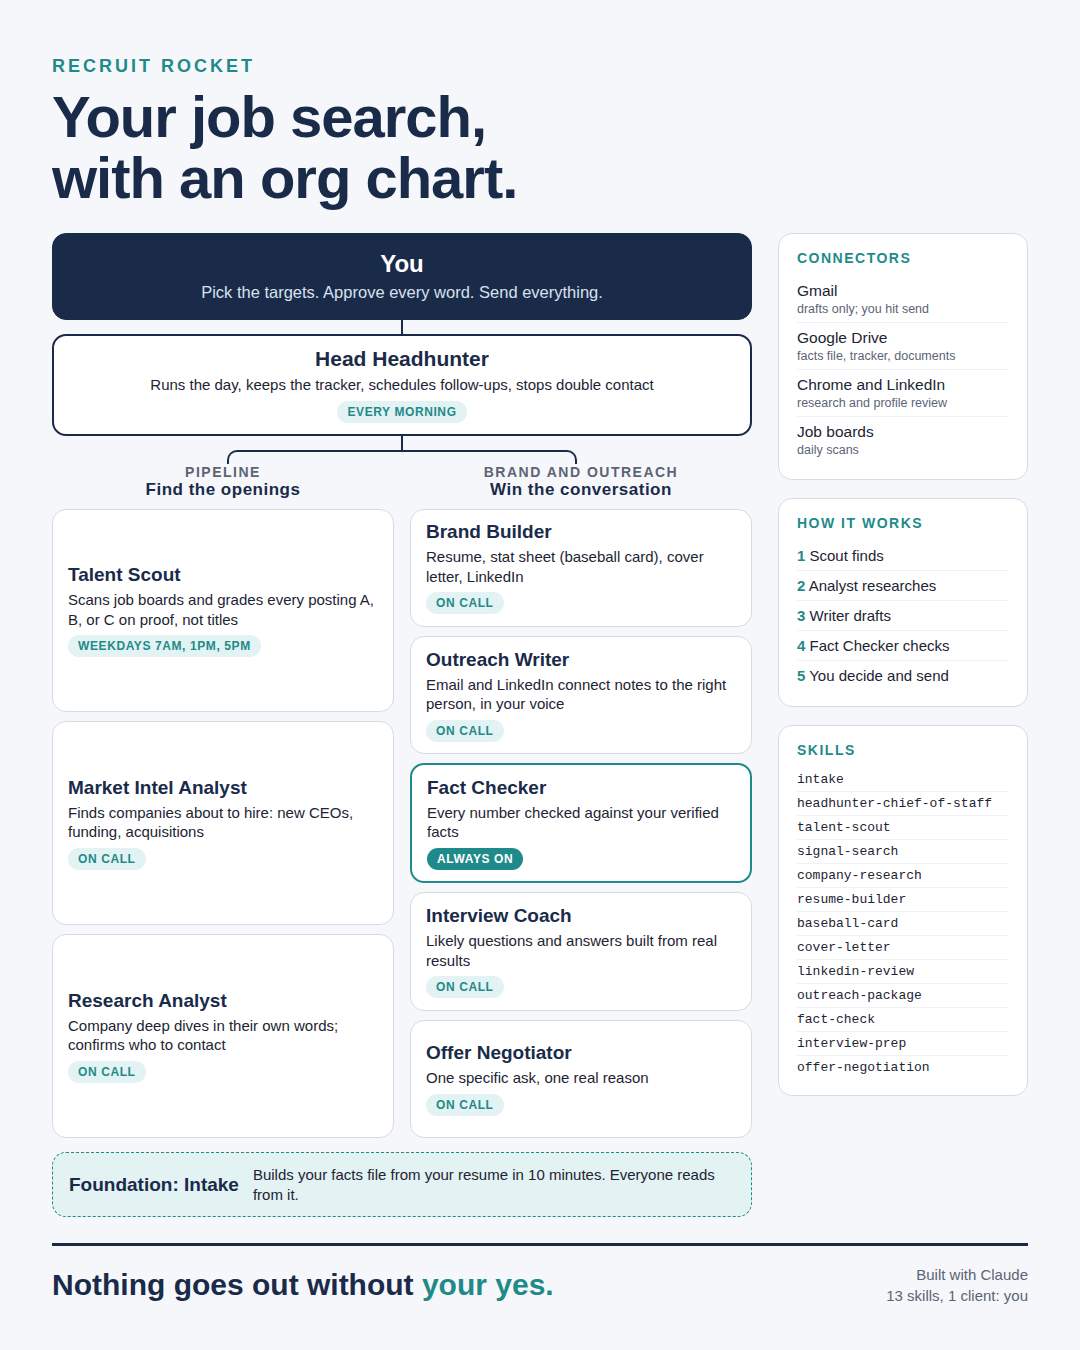
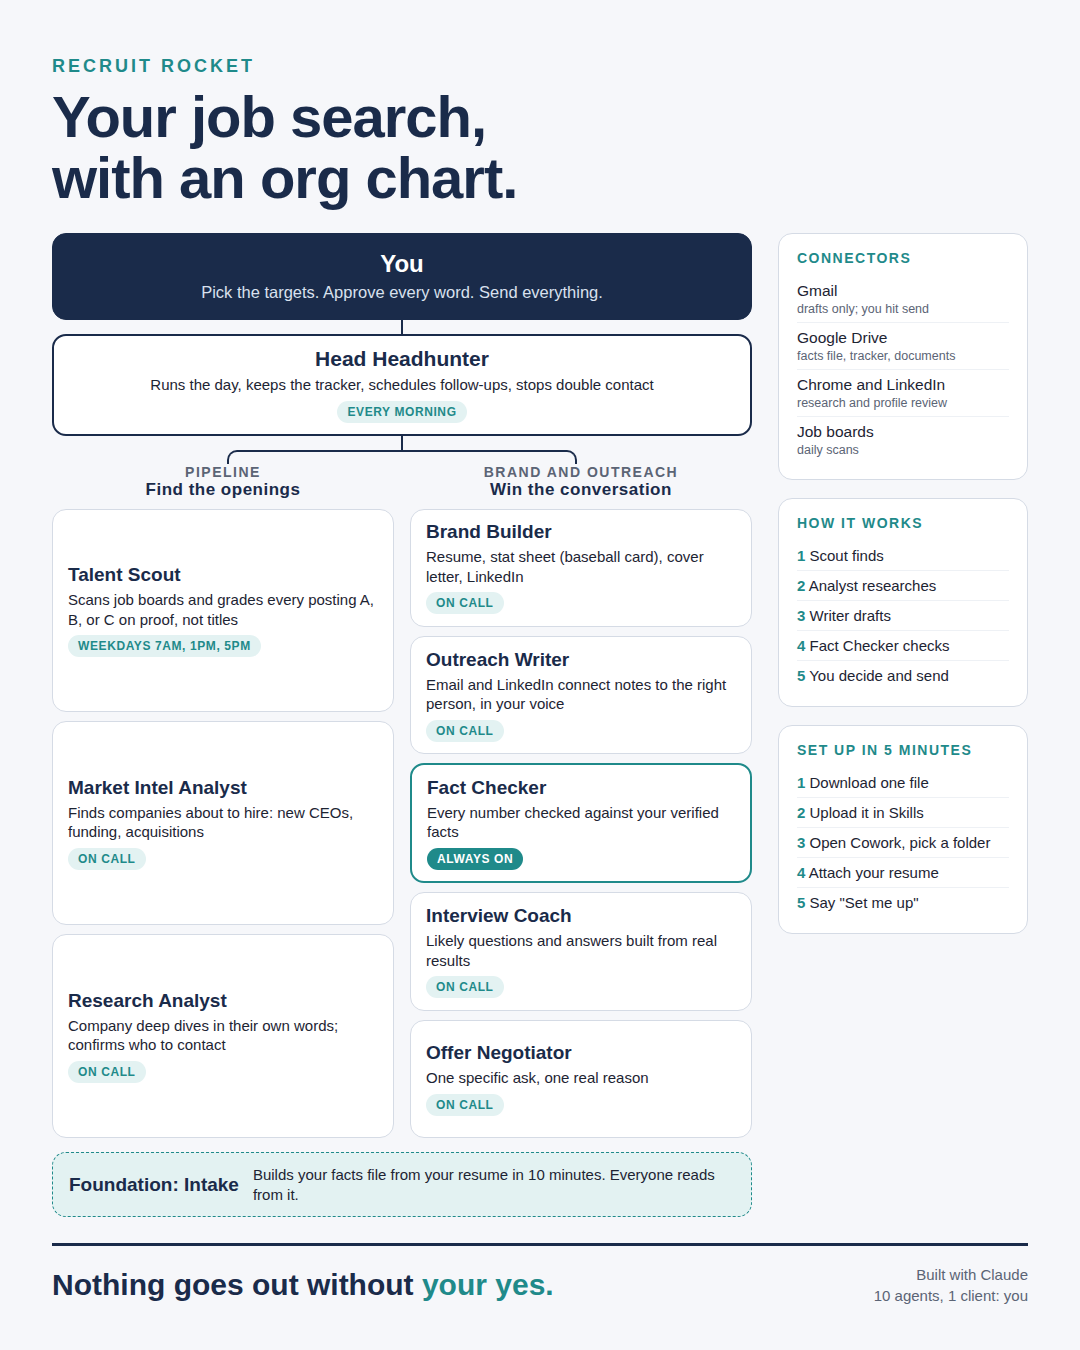
Marketing and docs: one skill, 10 agents
- Org chart: the 13-name Skills panel becomes "Set up in 5 minutes", and the
  footer reads "10 agents, 1 client: you". Image re-rendered.
- LinkedIn post draft: setup is one file and one sentence; point to TESTING.md
  in the public repo.
- Course outline and README: roles instead of skills, no "13-skill" wording.

Claude-Session: https://claude.ai/code/session_015bzELwEoawCrWnjLqSjadS

Changed region(s): [[0.7333, 0.5289, 0.9167, 0.8089], [0.825, 0.9333, 0.8556, 0.9644]]

diff --git a/marketing/org-chart.html b/marketing/org-chart.html
@@ -168,22 +168,14 @@
           <li><b>5</b> You decide and send</li>
         </ul>
       </div>
-      <div class="panel skills">
-        <h2>Skills</h2>
+      <div class="panel loop">
+        <h2>Set up in 5 minutes</h2>
         <ul>
-          <li>intake</li>
-          <li>headhunter-chief-of-staff</li>
-          <li>talent-scout</li>
-          <li>signal-search</li>
-          <li>company-research</li>
-          <li>resume-builder</li>
-          <li>baseball-card</li>
-          <li>cover-letter</li>
-          <li>linkedin-review</li>
-          <li>outreach-package</li>
-          <li>fact-check</li>
-          <li>interview-prep</li>
-          <li>offer-negotiation</li>
+          <li><b>1</b> Download one file</li>
+          <li><b>2</b> Upload it in Skills</li>
+          <li><b>3</b> Open Cowork, pick a folder</li>
+          <li><b>4</b> Attach your resume</li>
+          <li><b>5</b> Say "Set me up"</li>
         </ul>
       </div>
     </aside>
@@ -191,7 +183,7 @@
 
   <footer>
     <div class="yes">Nothing goes out without <span>your yes.</span></div>
-    <div class="built">Built with Claude<br>13 skills, 1 client: you</div>
+    <div class="built">Built with Claude<br>10 agents, 1 client: you</div>
   </footer>
 </div>
 </body>

diff --git a/docs/course-outline.md b/docs/course-outline.md
@@ -11,7 +11,7 @@ Throughline: **run your job search like a small recruiting firm with one client,
 - Demo: the Jordan Rivera sample run, start to finish in 5 minutes.
 
 ## Module 1: Intake and the facts file (20 min)
-Skill: `intake`
+Role: `intake`
 - Why a verified facts file beats a resume as your source of truth.
 - Approved phrasing: same number, different claim (resolution time vs. wait time; gross vs. net retention).
 - The 10-minute intake: resume in, 5 questions, facts file out.
@@ -20,26 +20,26 @@ Skill: `intake`
 - Exclusions: non-competes and former employers.
 
 ## Module 2: The Fact Checker (30 min)
-Skill: `fact-check`
+Role: `fact-check`
 - The five mistakes that end conversations: wrong metric, rounded number, unconfirmed claim, wrong name, guessed email.
 - Walkthrough: Jordan's first Harborline draft and the five fixes.
 - Bounce checks and email labels.
 
 ## Module 3: Pipeline, the visible market (40 min)
-Skill: `talent-scout`
+Role: `talent-scout`
 - Grading on proof, not titles. The A/B/C rubric.
 - Setting up a scheduled scan (weekdays 7am, 1pm, 5pm).
 - Exercise: grade 5 real postings against your facts file.
 
 ## Module 4: Pipeline, the hidden market (45 min)
-Skills: `signal-search`, `company-research`
+Roles: `signal-search`, `company-research`
 - The signals: new CEO or COO, funding, acquisitions, C-suite rebuilds. Why each creates a role.
 - Dated sources only. Confirming the right executive is current.
 - Hidden channels: communities, niche newsletters, search firms, PE talent partners.
 - Exercise: find 2 signal companies in your field and one channel.
 
 ## Module 5: Brand (60 min)
-Skills: `resume-builder`, `baseball-card`, `cover-letter`, `linkedin-review`
+Roles: `resume-builder`, `baseball-card`, `cover-letter`, `linkedin-review`
 - The ATS-safe resume: what breaks parsers and why.
 - Tailoring surgically: headline and first summary paragraph.
 - The baseball card: for humans, never for portals.
@@ -47,25 +47,25 @@ Skills: `resume-builder`, `baseball-card`, `cover-letter`, `linkedin-review`
 - Cover letters that start with the company, not with "I am writing to apply."
 
 ## Module 6: Outreach (45 min)
-Skill: `outreach-package`
+Role: `outreach-package`
 - The receipts email: their words, "Quick on me," 4 to 6 "I've..." bullets, 15 minutes.
 - The 300-character LinkedIn note.
 - Tracker discipline: never contact twice by accident.
 
 ## Module 7: The Head Headhunter's routine (30 min)
-Skill: `headhunter-chief-of-staff`
+Role: `headhunter-chief-of-staff`
 - The 15-minute morning briefing.
 - Follow-up cadence: 24-hour thank-you, 3-day value-add, 14-day close-the-loop. Never "just checking in."
 - Logging exact text sent.
 
 ## Module 8: Interviews (60 min)
-Skill: `interview-prep`
+Role: `interview-prep`
 - Predicting the 15 questions from the job description and the interviewer's seat.
 - STAR answers built only from your facts, and what to do when no fact fits.
 - Live role-play.
 
 ## Module 9: Offers (30 min)
-Skill: `offer-negotiation`
+Role: `offer-negotiation`
 - One specific ask, one real reason.
 - Why you never invent a competing offer.
 - Script and email walkthrough.
@@ -73,7 +73,7 @@ Skill: `offer-negotiation`
 ## Module 10: Put it together (30 min)
 - Your first week plan (from the README).
 - Keeping your data private.
-- Customizing skills for your field.
+- Customizing the role files for your field.
 
 ## Materials per module
 - Slides or screen recording of the skill in action on the Jordan Rivera sample.

diff --git a/marketing/linkedin-post.md b/marketing/linkedin-post.md
@@ -26,7 +26,7 @@ And it fact-checks everything against your own record before you see it. Every n
 
 Nothing goes out without your yes. It drafts. You send.
 
-Setup is one message you paste into Claude, then a 10-minute interview.
+Setup is one file you upload to Claude and one sentence, then a 10-minute interview.
 
 Comment ROCKET and I'll send it to you.
 
@@ -35,6 +35,5 @@ Comment ROCKET and I'll send it to you.
 ---
 
 ## Before posting
-- Make the GitHub repo public so the link works for people who comment.
-- Reply to each ROCKET comment with the repo link, or send it by DM.
+- Reply to each ROCKET comment with the link to TESTING.md in the public repo (https://github.com/brentblackmon/recruit-rocket/blob/main/TESTING.md), or send it by DM. It has the one-file download and the 5-minute setup.
 - Optional: replace one line with a real example from someone who tried it (with their permission).

diff --git a/README.md b/README.md
@@ -80,7 +80,7 @@ Outside the US? Add your country, city, and the currency you think in, for examp
 
 **Or install it as a plugin from GitHub** (gets updates without downloading again): in Claude, click **Customize**, then **Plugins**, then **Add marketplace**, enter `brentblackmon/job-search-headhunter-kit`, and click **Install** on Recruit Rocket. Then do steps 3 and 4.
 
-**Updating from the 13-skill version?** Delete the old skills (intake, talent-scout, resume-builder, and the rest) in **Skills** first, so Claude does not mix old and new instructions.
+**Installed an earlier version?** Delete the old Recruit Rocket skills (intake, talent-scout, resume-builder, and the rest) in **Skills** first, so Claude does not mix old and new instructions.
 
 ### Option B: Claude Code
 ```
